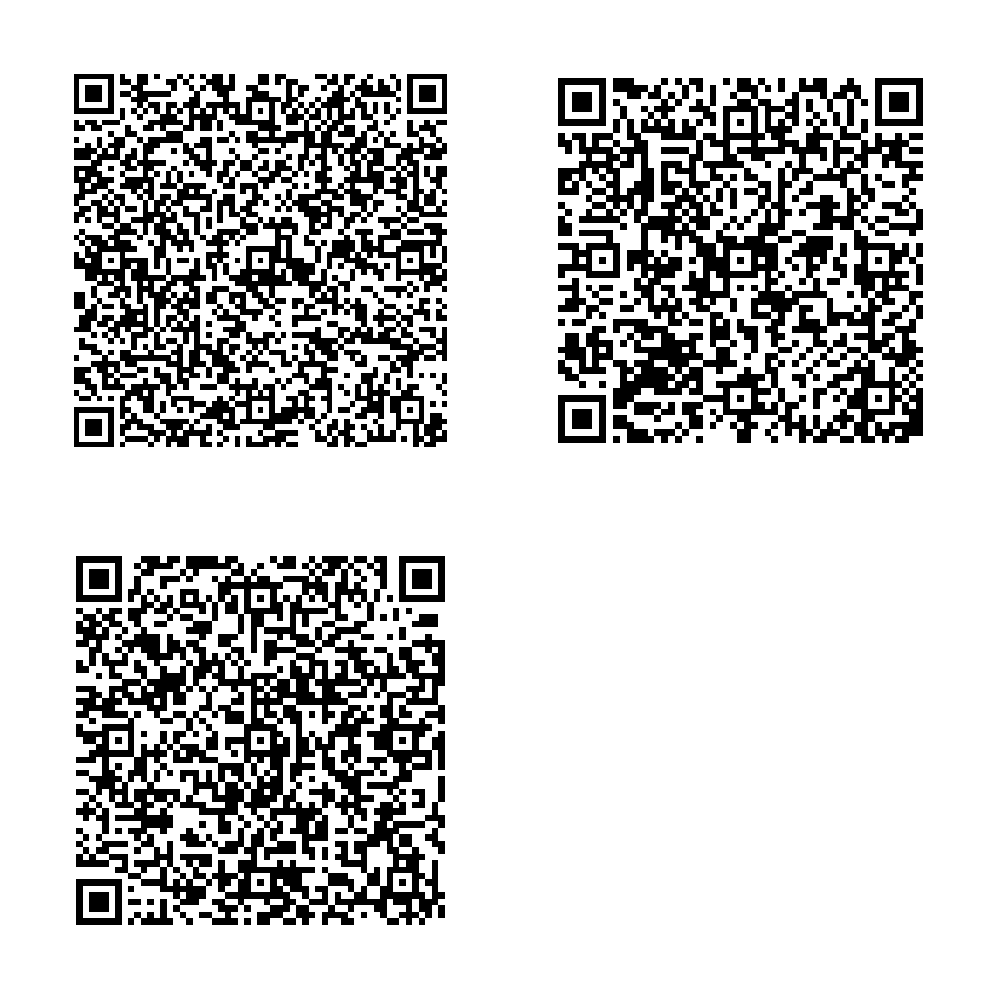
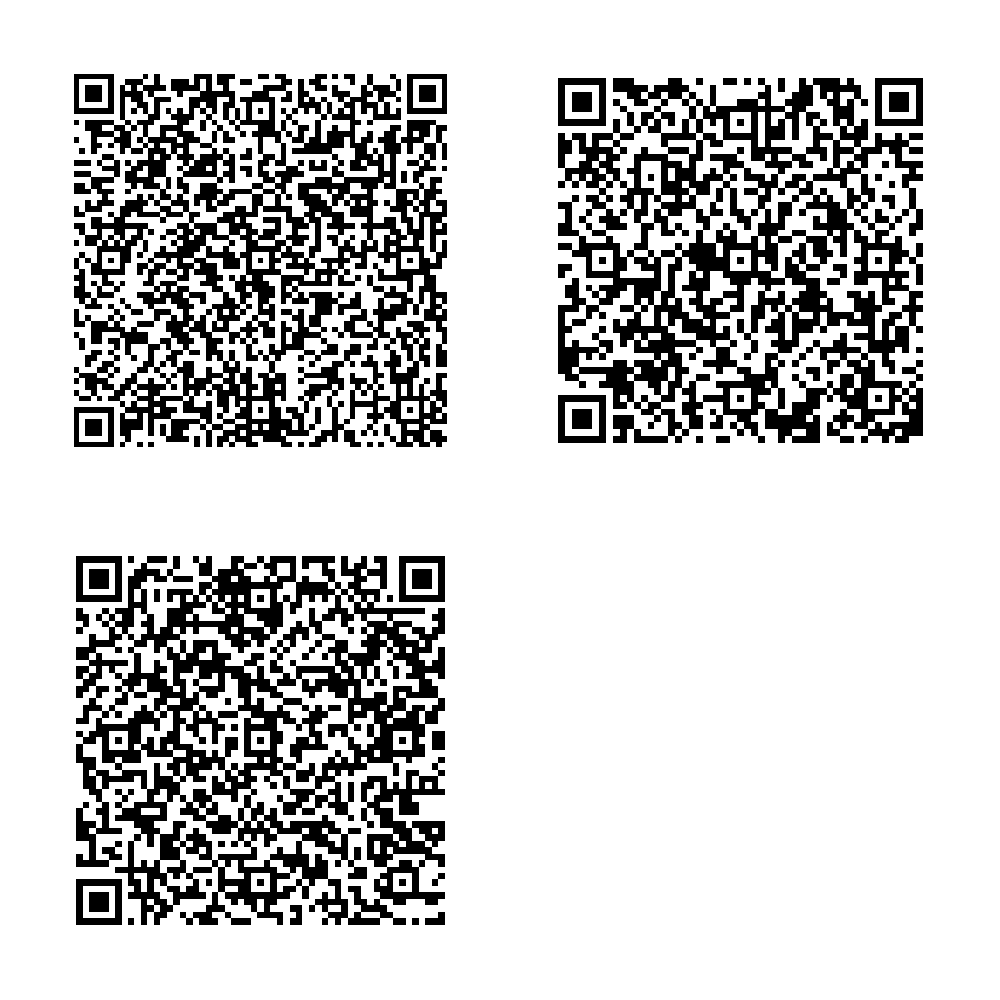
Exibir o município pelo nome a partir do código TSE
Embute a tabela dos 5.570 municípios com código TSE e UF (offline) e a
usa no QR Code, no PDF (quando traz o código) e numa migração do banco
que corrige leituras antigas salvas só com o código. Corrige os
exemplos, que usavam o código de Campinas (62910) para Conchal (63452).

Claude-Session: https://claude.ai/code/session_01R8y7rC4ywidapp1TrrdFsR

Changed region(s): [[0.062, 0.062, 0.465, 0.465], [0.062, 0.558, 0.465, 0.93], [0.558, 0.062, 0.93, 0.465]]

diff --git a/src/services/capturaQr.ts b/src/services/capturaQr.ts
@@ -1,10 +1,7 @@
-import { gravarConfig, lerConfig } from '../db/database';
 import { verificarAssinaturaBu } from '../domain/assinatura';
 import { interpretarQr, MontadorQr, separarPartes, validarHashes } from '../domain/qrbu';
-import type { Boletim, Captura, Leitura, TipoEntrada } from '../domain/types';
+import type { Captura, TipoEntrada } from '../domain/types';
 import { obterChavePublica, obterComplemento } from './tseQr';
-
-export const CFG_MUNICIPIOS = 'municipios';
 
 export class ErroCaptura extends Error {}
 
@@ -46,17 +43,14 @@ export async function capturaDeQr(montador: MontadorQr, tipo: TipoEntrada = 'qr_
   }
 
   if (comp) {
-    if (comp.municipio) boletim.municipio = comp.municipio;
+    // Município fora da tabela (ex.: exterior): usa o nome do arquivo do TSE.
+    if (comp.municipio && boletim.municipio.startsWith('MUNICÍPIO ')) boletim.municipio = comp.municipio;
     for (const c of boletim.cargos) {
       for (const k of c.candidatos) {
         const nome = comp.candidatos[`${c.cargo}|${Number(k.numero)}`];
         if (nome && !k.legenda) k.nome = nome;
       }
     }
-  }
-  const municipios = await lerConfig<Record<string, string>>(CFG_MUNICIPIOS, {});
-  if (!comp?.municipio && boletim.codigoMunicipio && municipios[boletim.codigoMunicipio]) {
-    boletim.municipio = municipios[boletim.codigoMunicipio];
   }
   if (boletim.fase && boletim.fase !== 'O') {
     avisos.push(`Boletim de urna em fase "${boletim.fase === 'S' ? 'simulado' : boletim.fase === 'T' ? 'treinamento' : boletim.fase}" (não oficial).`);
@@ -84,21 +78,4 @@ export function montarDeTextos(textos: string[]): MontadorQr {
     }
   }
   return m;
-}
-
-/**
- * PDF/OCR trazem código e nome do município ("62910 - CONCHAL"); o QR traz só
- * o código. Guarda a associação para exibir o mesmo nome nas duas origens.
- */
-export async function aprenderMunicipio(b: Boletim): Promise<void> {
-  if (!b.codigoMunicipio || !b.municipio || b.municipio.startsWith('MUNICÍPIO ')) return;
-  const mapa = await lerConfig<Record<string, string>>(CFG_MUNICIPIOS, {});
-  if (mapa[b.codigoMunicipio]) return;
-  await gravarConfig(CFG_MUNICIPIOS, { ...mapa, [b.codigoMunicipio]: b.municipio });
-}
-
-/** Nome do município para exibição/filtro, resolvendo o código do QR pelo cadastro. */
-export function nomeMunicipio(l: Leitura, mapa: Record<string, string>): string {
-  const cod = l.boletim.codigoMunicipio;
-  return (cod && mapa[cod]) || l.municipio;
 }

diff --git a/src/ui/PainelApuracao.tsx b/src/ui/PainelApuracao.tsx
@@ -4,7 +4,6 @@ import { db, lerConfig } from '../db/database';
 import { agregar, aplicarFiltro, type FiltroLeituras, type ResultadoAgregadoCargo } from '../domain/agregacao';
 import { comZeros, formatarNumero, formatarPct } from '../domain/normalizar';
 import { ICONE_ENTRADA, ROTULO_ENTRADA, type TipoEntrada } from '../domain/types';
-import { CFG_MUNICIPIOS, nomeMunicipio } from '../services/capturaQr';
 import { descreverUrna } from '../services/registro';
 
 function Kpi({ rotulo, valor, sub, medidor }: { rotulo: string; valor: string; sub?: string; medidor?: number }) {
@@ -66,13 +65,9 @@ export function PainelApuracao() {
   const leituras = useLiveQuery(() => db.leituras.toArray(), []);
   const cadastro = useLiveQuery(() => db.candidatos.toArray(), []);
   const esperadas = useLiveQuery(() => lerConfig<number>('urnasEsperadas', 0), []);
-  const municipios = useLiveQuery(() => lerConfig<Record<string, string>>(CFG_MUNICIPIOS, {}), []);
   const [filtro, setFiltro] = useState<FiltroLeituras>({});
 
-  const ativas = useMemo(
-    () => (leituras ?? []).filter((l) => l.status === 'ativo').map((l) => ({ ...l, municipio: nomeMunicipio(l, municipios ?? {}) })),
-    [leituras, municipios],
-  );
+  const ativas = useMemo(() => (leituras ?? []).filter((l) => l.status === 'ativo'), [leituras]);
   const opcoes = useMemo(() => ({
     municipios: [...new Set(ativas.map((l) => l.municipio).filter(Boolean))].sort(),
     zonas: [...new Set(ativas.map((l) => l.zona_eleitoral))].sort((a, b) => Number(a) - Number(b)),

diff --git a/src/services/capturaQr.test.ts b/src/services/capturaQr.test.ts
@@ -59,12 +59,13 @@ describe('leitura do QR Code com dados públicos do TSE', () => {
     expect(caminhoComplemento(campos)).toBe(CAMINHO_COMP);
   });
 
-  it('verifica a assinatura e completa os nomes', async () => {
+  it('verifica a assinatura e completa os nomes dos candidatos', async () => {
     servidor({ [CAMINHO_CHAVE]: hexParaBytes(CHAVE_PUBLICA_MANUAL), [CAMINHO_COMP]: COMPLEMENTO });
     const c = await capturaDeQr(montarDeTextos([QR_MANUAL_SIMPLES]));
     expect(c.checksumValido).toBe(true);
     expect(c.assinaturaValida).toBe(true);
-    expect(c.boletim.municipio).toBe('RIO BRANCO');
+    // O nome do município vem da tabela oficial de códigos TSE (1120 = Acrelândia/AC).
+    expect(c.boletim.municipio).toBe('ACRELÂNDIA');
     const pref = c.boletim.cargos.find((x) => x.cargo === 'PREFEITO')!;
     expect(pref.candidatos[0]).toMatchObject({ numero: '92', nome: 'FORRÓ (PRM)', votos: 1 });
     const ver = c.boletim.cargos.find((x) => x.cargo === 'VEREADOR')!;
@@ -94,7 +95,7 @@ describe('leitura do QR Code com dados públicos do TSE', () => {
     const c = await capturaDeQr(montarDeTextos([QR_MANUAL_SIMPLES]));
     expect(f).not.toHaveBeenCalled();
     expect(c.assinaturaValida).toBe(true);
-    expect(c.boletim.municipio).toBe('RIO BRANCO');
+    expect(c.boletim.cargos.find((x) => x.cargo === 'PREFEITO')!.candidatos[0].nome).toBe('FORRÓ (PRM)');
   });
 
   it('ignora complemento inválido', () => {

diff --git a/src/domain/qrbu.ts b/src/domain/qrbu.ts
@@ -5,7 +5,7 @@
  * espaço, por exemplo:
  *
  *   QRBU:1:1 VRQR:1.5 VRCH:20220930 ORIG:VOTA ORLC:LEG PROC:406 DTPL:20221030
- *   PLEI:407 TURN:2 FASE:O UNFE:SP MUNI:62910 ZONA:75 SECA:182 IDUE:1787323
+ *   PLEI:407 TURN:2 FASE:O UNFE:SP MUNI:63452 ZONA:75 SECA:182 IDUE:1787323
  *   IDCA:666070534576779579335458 VERS:8.26.0.0 LOCA:1015 APTS:325 COMP:278
  *   FALT:47 ... IDEL:545 CARG:1 TIPO:0 VERC:202209 13:45 22:225 APTA:325
  *   NOMI:270 BRAN:5 NULO:3 TOTC:278 HASH:... ASSI:...
@@ -15,6 +15,7 @@
  * funciona como código verificador da integridade do conteúdo.
  */
 import { cargoCanonico } from './cargos';
+import { nomeMunicipioTse } from './municipios';
 import { sha512Hex } from './hash';
 import { apenasDigitos, dataIso, numeroCanonico } from './normalizar';
 import type { Boletim, ResultadoCargo } from './types';
@@ -191,7 +192,7 @@ export function interpretarQr(partes: ParteQr[]): BoletimQr {
   const aptos = campos.APTO ?? campos.APTS ?? campos.APTA;
   const boletim: Boletim = {
     uf: campos.UNFE,
-    municipio: campos.MUNI ? `MUNICÍPIO ${campos.MUNI}` : '',
+    municipio: nomeMunicipioTse(campos.MUNI),
     codigoMunicipio: campos.MUNI ? numeroCanonico(campos.MUNI) : undefined,
     zona: numeroCanonico(campos.ZONA),
     local: numeroCanonico(campos.LOCA),

diff --git a/src/test/fixtures.ts b/src/test/fixtures.ts
@@ -2,7 +2,7 @@ import { sha512Hex } from '../domain/hash';
 
 /** Conteúdo (sem HASH) de um BU de exemplo, dividido em partes. */
 export const CORPO_BU = [
-  'ORIG:VOTA ORLC:LEG PROC:407 DTPL:20221030 PLEI:407 TURN:2 FASE:O UNFE:SP MUNI:62910 ZONA:75 SECA:182 IDUE:1787323 IDCA:666070534576779579335458 VERS:8.26.0.0 LOCA:1015 APTS:325 COMP:278 FALT:47 DTAB:20221030 HRAB:080001 DTFC:20221030 HRFC:170059',
+  'ORIG:VOTA ORLC:LEG PROC:407 DTPL:20221030 PLEI:407 TURN:2 FASE:O UNFE:SP MUNI:63452 ZONA:75 SECA:182 IDUE:1787323 IDCA:666070534576779579335458 VERS:8.26.0.0 LOCA:1015 APTS:325 COMP:278 FALT:47 DTAB:20221030 HRAB:080001 DTFC:20221030 HRFC:170059',
   'IDEL:545 CARG:1 TIPO:0 VERC:202209 13:45 22:225 APTA:325 NOMI:270 BRAN:5 NULO:3 TOTC:278',
   'IDEL:546 CARG:3 TIPO:0 VERC:202209 10:223 13:40 APTA:325 NOMI:263 BRAN:7 NULO:8 TOTC:278',
 ];
@@ -27,7 +27,7 @@ export const TEXTO_PDF = `Justiça Eleitoral
 Tribunal Regional Eleitoral de São Paulo
 Eleições Gerais 2022 - 2º Turno
 Boletim de Urna
-Município 62910 - CONCHAL
+Município 63452 - CONCHAL
 Zona Eleitoral 0075 Local de Votação 1015 Seção Eleitoral 0182
 Eleitores aptos 0325
 Código identificação UE 01787323

diff --git a/src/domain/textoBu.ts b/src/domain/textoBu.ts
@@ -4,6 +4,7 @@
  * cada campo, para destacar na tela de revisão o que precisa ser conferido.
  */
 import { cargoDoTitulo } from './cargos';
+import { municipioPorCodigoTse } from './municipios';
 import {
   apenasDigitos,
   dataIso,
@@ -95,7 +96,7 @@ export function interpretarTextoBu(linhas: LinhaTexto[], opcoes: { ocr: boolean 
     return c?.valor ?? '';
   };
 
-  // Município: "Município 62910 - CONCHAL" ou "Município: CONCHAL"
+  // Município: "Município 63452 - CONCHAL" ou "Município: CONCHAL"
   let municipio = '';
   let codigoMunicipio: string | undefined;
   for (const l of norm) {
@@ -106,6 +107,13 @@ export function interpretarTextoBu(linhas: LinhaTexto[], opcoes: { ocr: boolean 
       confianca.municipio = Math.round(l.confianca);
       break;
     }
+  }
+
+  // Com o código TSE do município, o nome vem da tabela oficial (mais confiável que o texto lido).
+  const oficial = municipioPorCodigoTse(codigoMunicipio);
+  if (oficial) {
+    municipio = oficial.nome;
+    confianca.municipio = Math.max(confianca.municipio ?? 0, 99);
   }
 
   const zona = set('zona', campoNumerico(/ZONA(\s+ELEITORAL)?\s*:?/));

diff --git a/src/db/database.ts b/src/db/database.ts
@@ -1,4 +1,5 @@
 import Dexie, { type EntityTable } from 'dexie';
+import { municipioPorCodigoTse } from '../domain/municipios';
 import type { CadastroCandidato, Exclusao, Leitura, TipoEntrada } from '../domain/types';
 
 /** Tentativas descartadas (duplicatas, erros de validação) para auditoria. */
@@ -38,6 +39,21 @@ export class BancoApuracao extends Dexie {
       candidatos: 'chave, cargo',
       config: 'chave',
     });
+    // v2: leituras antigas de QR guardavam "MUNICÍPIO <código>"; passa a usar o nome oficial.
+    this.version(2).upgrade((tx) =>
+      tx
+        .table('leituras')
+        .toCollection()
+        .modify((l: Leitura) => {
+          if (!l.municipio || l.municipio.startsWith('MUNICÍPIO ')) {
+            const m = municipioPorCodigoTse(l.boletim?.codigoMunicipio);
+            if (m) {
+              l.municipio = m.nome;
+              l.boletim.municipio = m.nome;
+            }
+          }
+        }),
+    );
   }
 }
 

diff --git a/src/domain/municipios.test.ts b/src/domain/municipios.test.ts
@@ -1,0 +1,20 @@
+import { describe, expect, it } from 'vitest';
+import { QR_REAL_2022 } from '../test/fixtures';
+import { municipioPorCodigoTse, nomeMunicipioTse } from './municipios';
+import { interpretarQr, MontadorQr } from './qrbu';
+
+describe('tabela de municípios por código TSE', () => {
+  it('traz os 5.570 municípios com UF', () => {
+    expect(municipioPorCodigoTse('63452')).toEqual({ uf: 'SP', nome: 'CONCHAL' });
+    expect(municipioPorCodigoTse('71072')).toEqual({ uf: 'SP', nome: 'SÃO PAULO' });
+    expect(municipioPorCodigoTse('01120')).toEqual({ uf: 'AC', nome: 'ACRELÂNDIA' });
+    expect(municipioPorCodigoTse('99999')).toBeNull();
+    expect(nomeMunicipioTse('99999')).toBe('MUNICÍPIO 99999');
+  });
+
+  it('o QR real mostra o município pelo nome', () => {
+    const m = new MontadorQr();
+    m.adicionar(QR_REAL_2022);
+    expect(interpretarQr(m.ordenadas()).boletim.municipio).toBe('CONCHAL');
+  });
+});

diff --git a/src/ui/Confirmacao.tsx b/src/ui/Confirmacao.tsx
@@ -1,7 +1,6 @@
 import { useEffect, useRef, useState } from 'react';
 import { comZeros, dataBr, formatarNumero } from '../domain/normalizar';
 import { ICONE_ENTRADA, ROTULO_ENTRADA, type Captura, type Leitura } from '../domain/types';
-import { aprenderMunicipio } from '../services/capturaQr';
 import { prepararCaptura, registrarDescarte, salvarCaptura, type Preparo } from '../services/registro';
 import { dataHora, ir, Modal, ROTA_METODO, sinalizar, Topo, useFluxo } from './comum';
 import { TabelaComparacao } from './TabelaComparacao';
@@ -33,7 +32,6 @@ export function Confirmacao() {
   async function salvar(c: Captura, preparo: Preparo, substituirId?: string) {
     try {
       const leitura = await salvarCaptura(c, preparo, { substituirId });
-      await aprenderMunicipio(c.boletim);
       sinalizar('ok');
       limpar();
       setEstado({ fase: 'salvo', leitura, alertas: leitura.validacao.alertas });

diff --git a/src/domain/municipios.ts b/src/domain/municipios.ts
@@ -1,0 +1,19 @@
+/**
+ * Tabela oficial de municípios por código TSE (5.570 municípios), embutida
+ * no app para funcionar offline. O QR Code do BU traz apenas o código (MUNI).
+ */
+import tabela from '../dados/municipiosTse.json';
+import { numeroCanonico } from './normalizar';
+
+const MUNICIPIOS = tabela as unknown as Record<string, [uf: string, nome: string]>;
+
+export function municipioPorCodigoTse(codigo: string | null | undefined): { uf: string; nome: string } | null {
+  const c = numeroCanonico(codigo);
+  const m = c ? MUNICIPIOS[c] : undefined;
+  return m ? { uf: m[0], nome: m[1] } : null;
+}
+
+/** Nome do município pelo código TSE, ou um rótulo com o código se não constar da tabela. */
+export function nomeMunicipioTse(codigo: string | null | undefined): string {
+  return municipioPorCodigoTse(codigo)?.nome ?? (numeroCanonico(codigo) ? `MUNICÍPIO ${numeroCanonico(codigo)}` : '');
+}

diff --git a/src/domain/textoBu.test.ts b/src/domain/textoBu.test.ts
@@ -10,7 +10,7 @@ describe('interpretação de texto do BU (PDF/OCR)', () => {
     const b = r.boletim;
     expect(b).toMatchObject({
       municipio: 'CONCHAL',
-      codigoMunicipio: '62910',
+      codigoMunicipio: '63452',
       zona: '75',
       local: '1015',
       secao: '182',

diff --git a/README.md b/README.md
@@ -61,7 +61,8 @@ Na tela de duplicata, o usuário pode **Descartar** (fica registrado no históri
 
 - **Formato do QR Code**: segue o manual oficial "QR Code no Boletim de Urna" (TSE, 2024). Conferido com um QR Code real de urna (2º turno de 2022) e com os exemplos do manual (BU em 1 e em 4 QR Codes, Software de Votação e Sistema de Apuração), que estão nos testes.
 - **Assinatura digital (campo `ASSI`)**: Ed25519 sobre o último hash, verificada com a chave pública do TSE para a UF e a versão de chave do QR (`qrcodenobu.tse.jus.br`). A chave fica em cache no aparelho. Assinatura inválida rejeita a leitura; sem a chave (offline ou servidor inacessível), a leitura é aceita e marcada como "assinatura não verificada" no detalhe do registro.
-- **Nomes de candidatos e municípios**: o QR traz só números. Os nomes vêm do arquivo de complemento publicado pelo TSE (`json-bu`, seção 7 do manual), baixado quando há internet e guardado em cache, ou de leituras por PDF/OCR. Se nenhum estiver disponível, o painel mostra "CANDIDATO nº".
+- **Municípios**: o QR traz só o código TSE do município (`MUNI`). O app embute a tabela oficial dos 5.570 municípios com seus códigos TSE (`src/dados/municipiosTse.json`, a partir de [betafcc/Municipios-Brasileiros-TSE](https://github.com/betafcc/Municipios-Brasileiros-TSE)) e mostra sempre o nome, inclusive offline. Leituras antigas são convertidas automaticamente.
+- **Nomes de candidatos**: o QR traz só números. Os nomes vêm do arquivo de complemento publicado pelo TSE (`json-bu`, seção 7 do manual), baixado quando há internet e guardado em cache, ou de leituras por PDF/OCR. Se nenhum estiver disponível, o painel mostra "CANDIDATO nº".
 - **Layout do BU impresso**: o parser de PDF/OCR é tolerante (rótulos sem acento e em qualquer caixa, valor na mesma linha ou na seguinte), mas foi testado com boletins de exemplo, não com toda variação real. A revisão antes de aceitar é a camada final de validação.
 - **Compatibilidade**: o build é gerado para Safari 14+ e Chrome 87+. Versões muito antigas (iOS 12) não suportam partes do pdf.js e do Tesseract.
 
